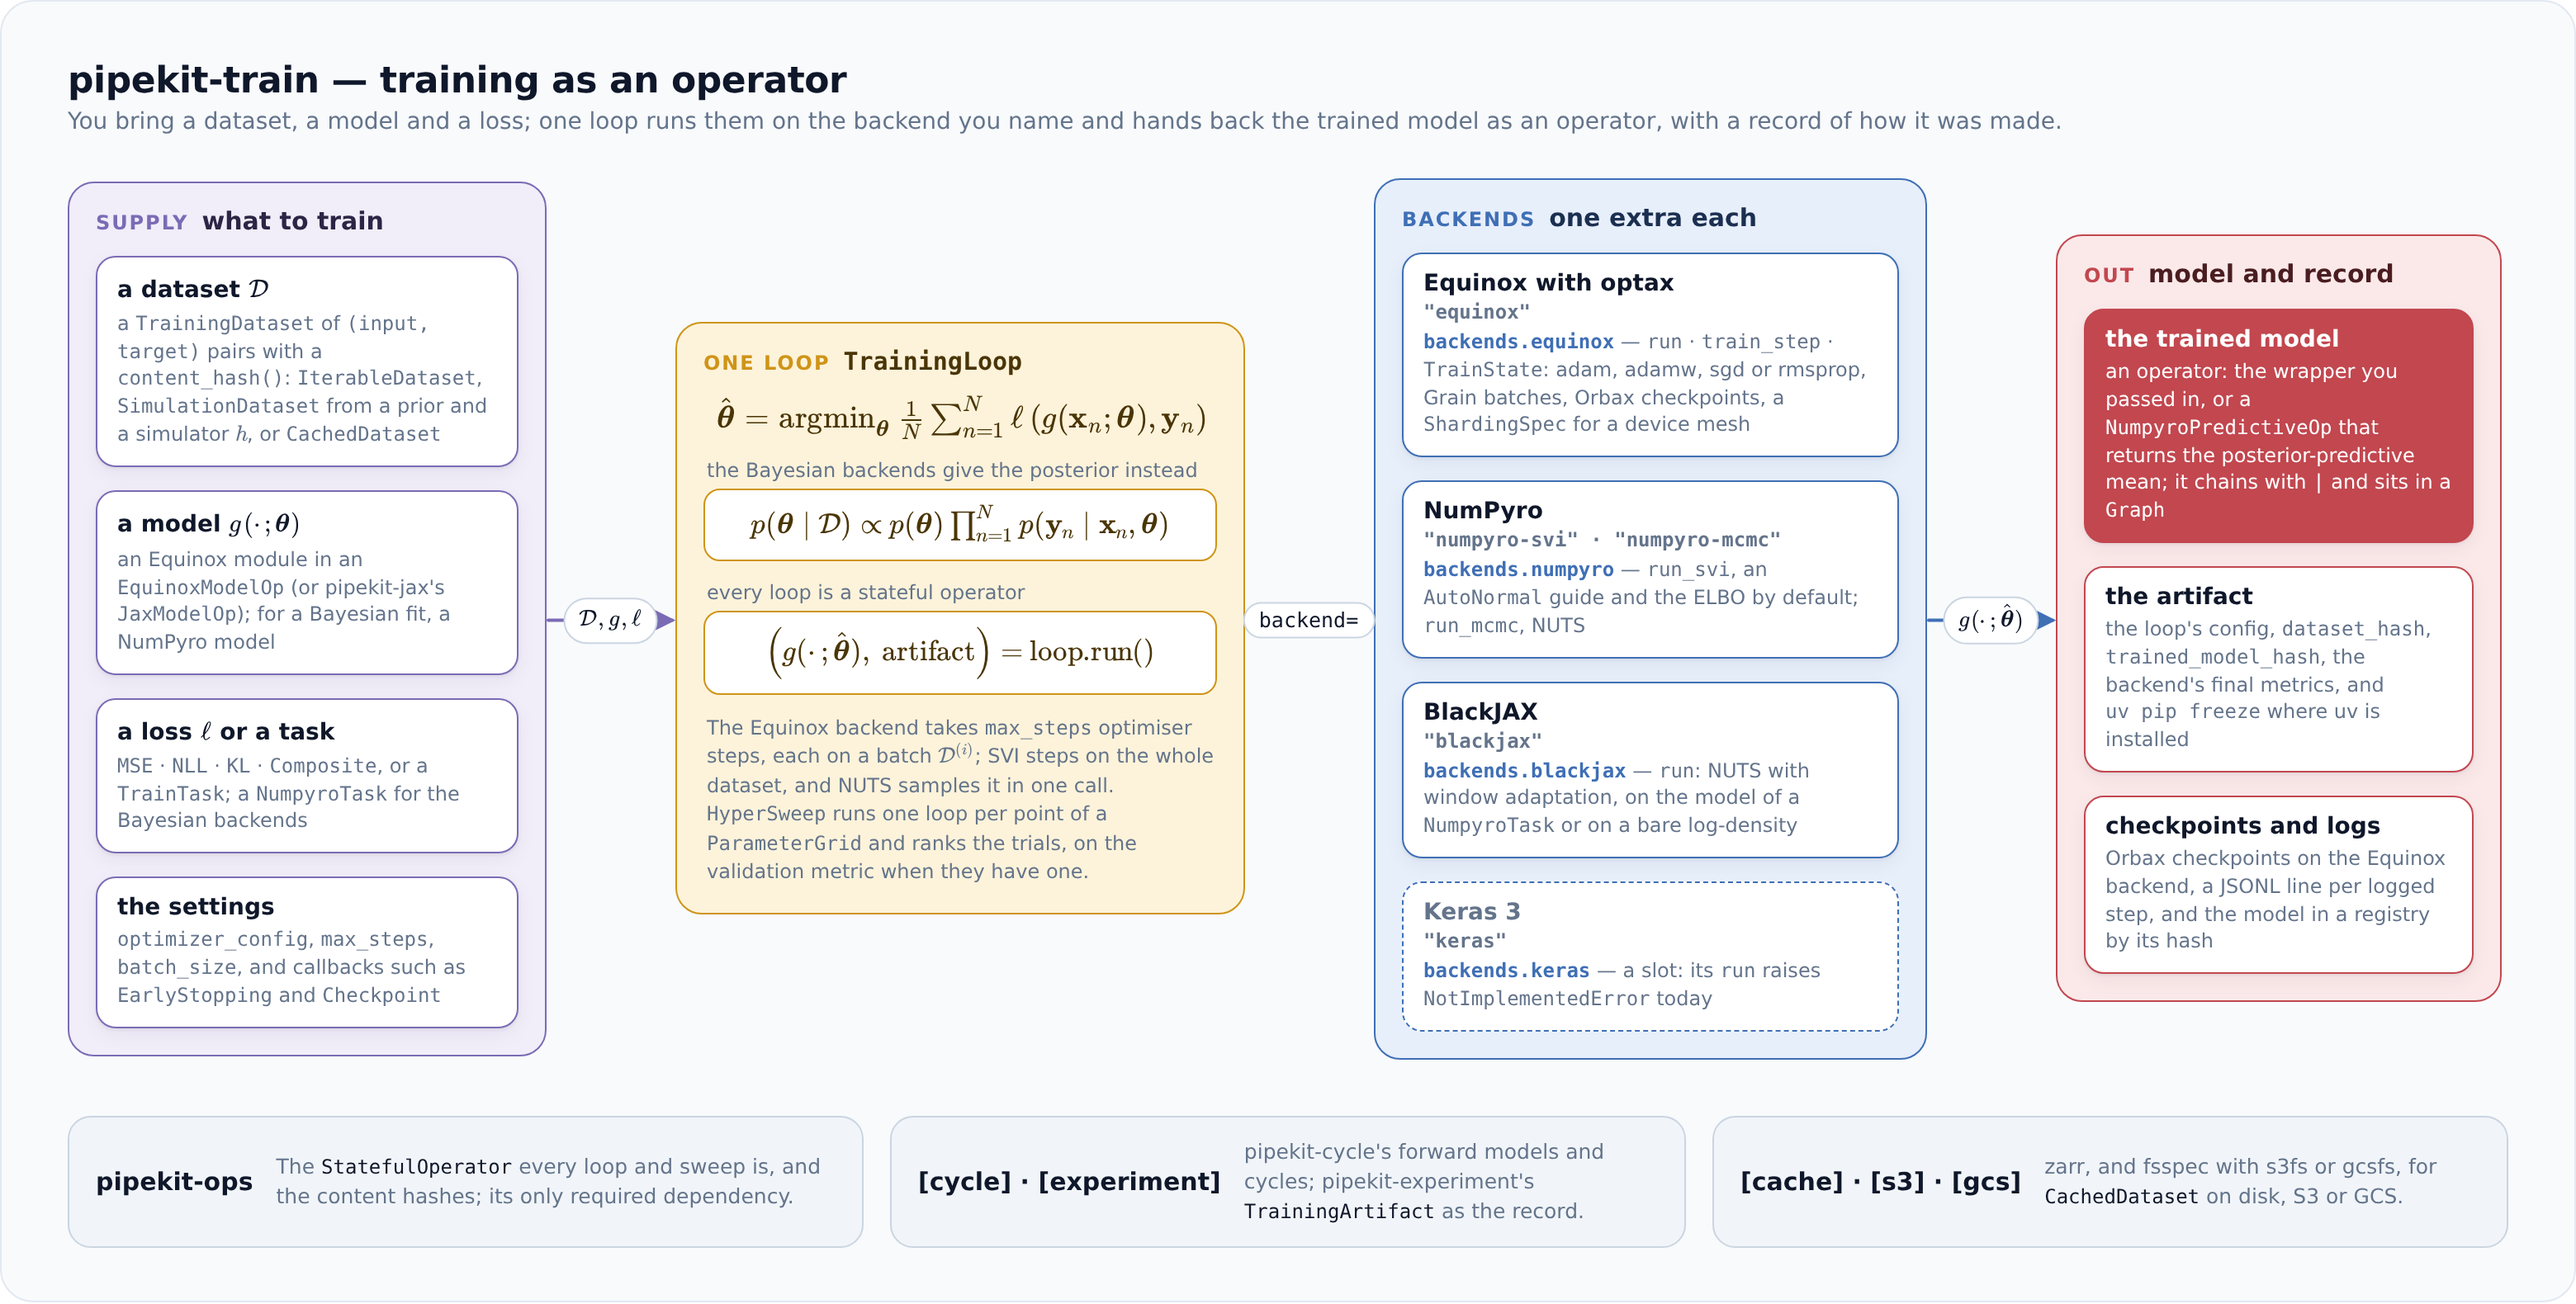
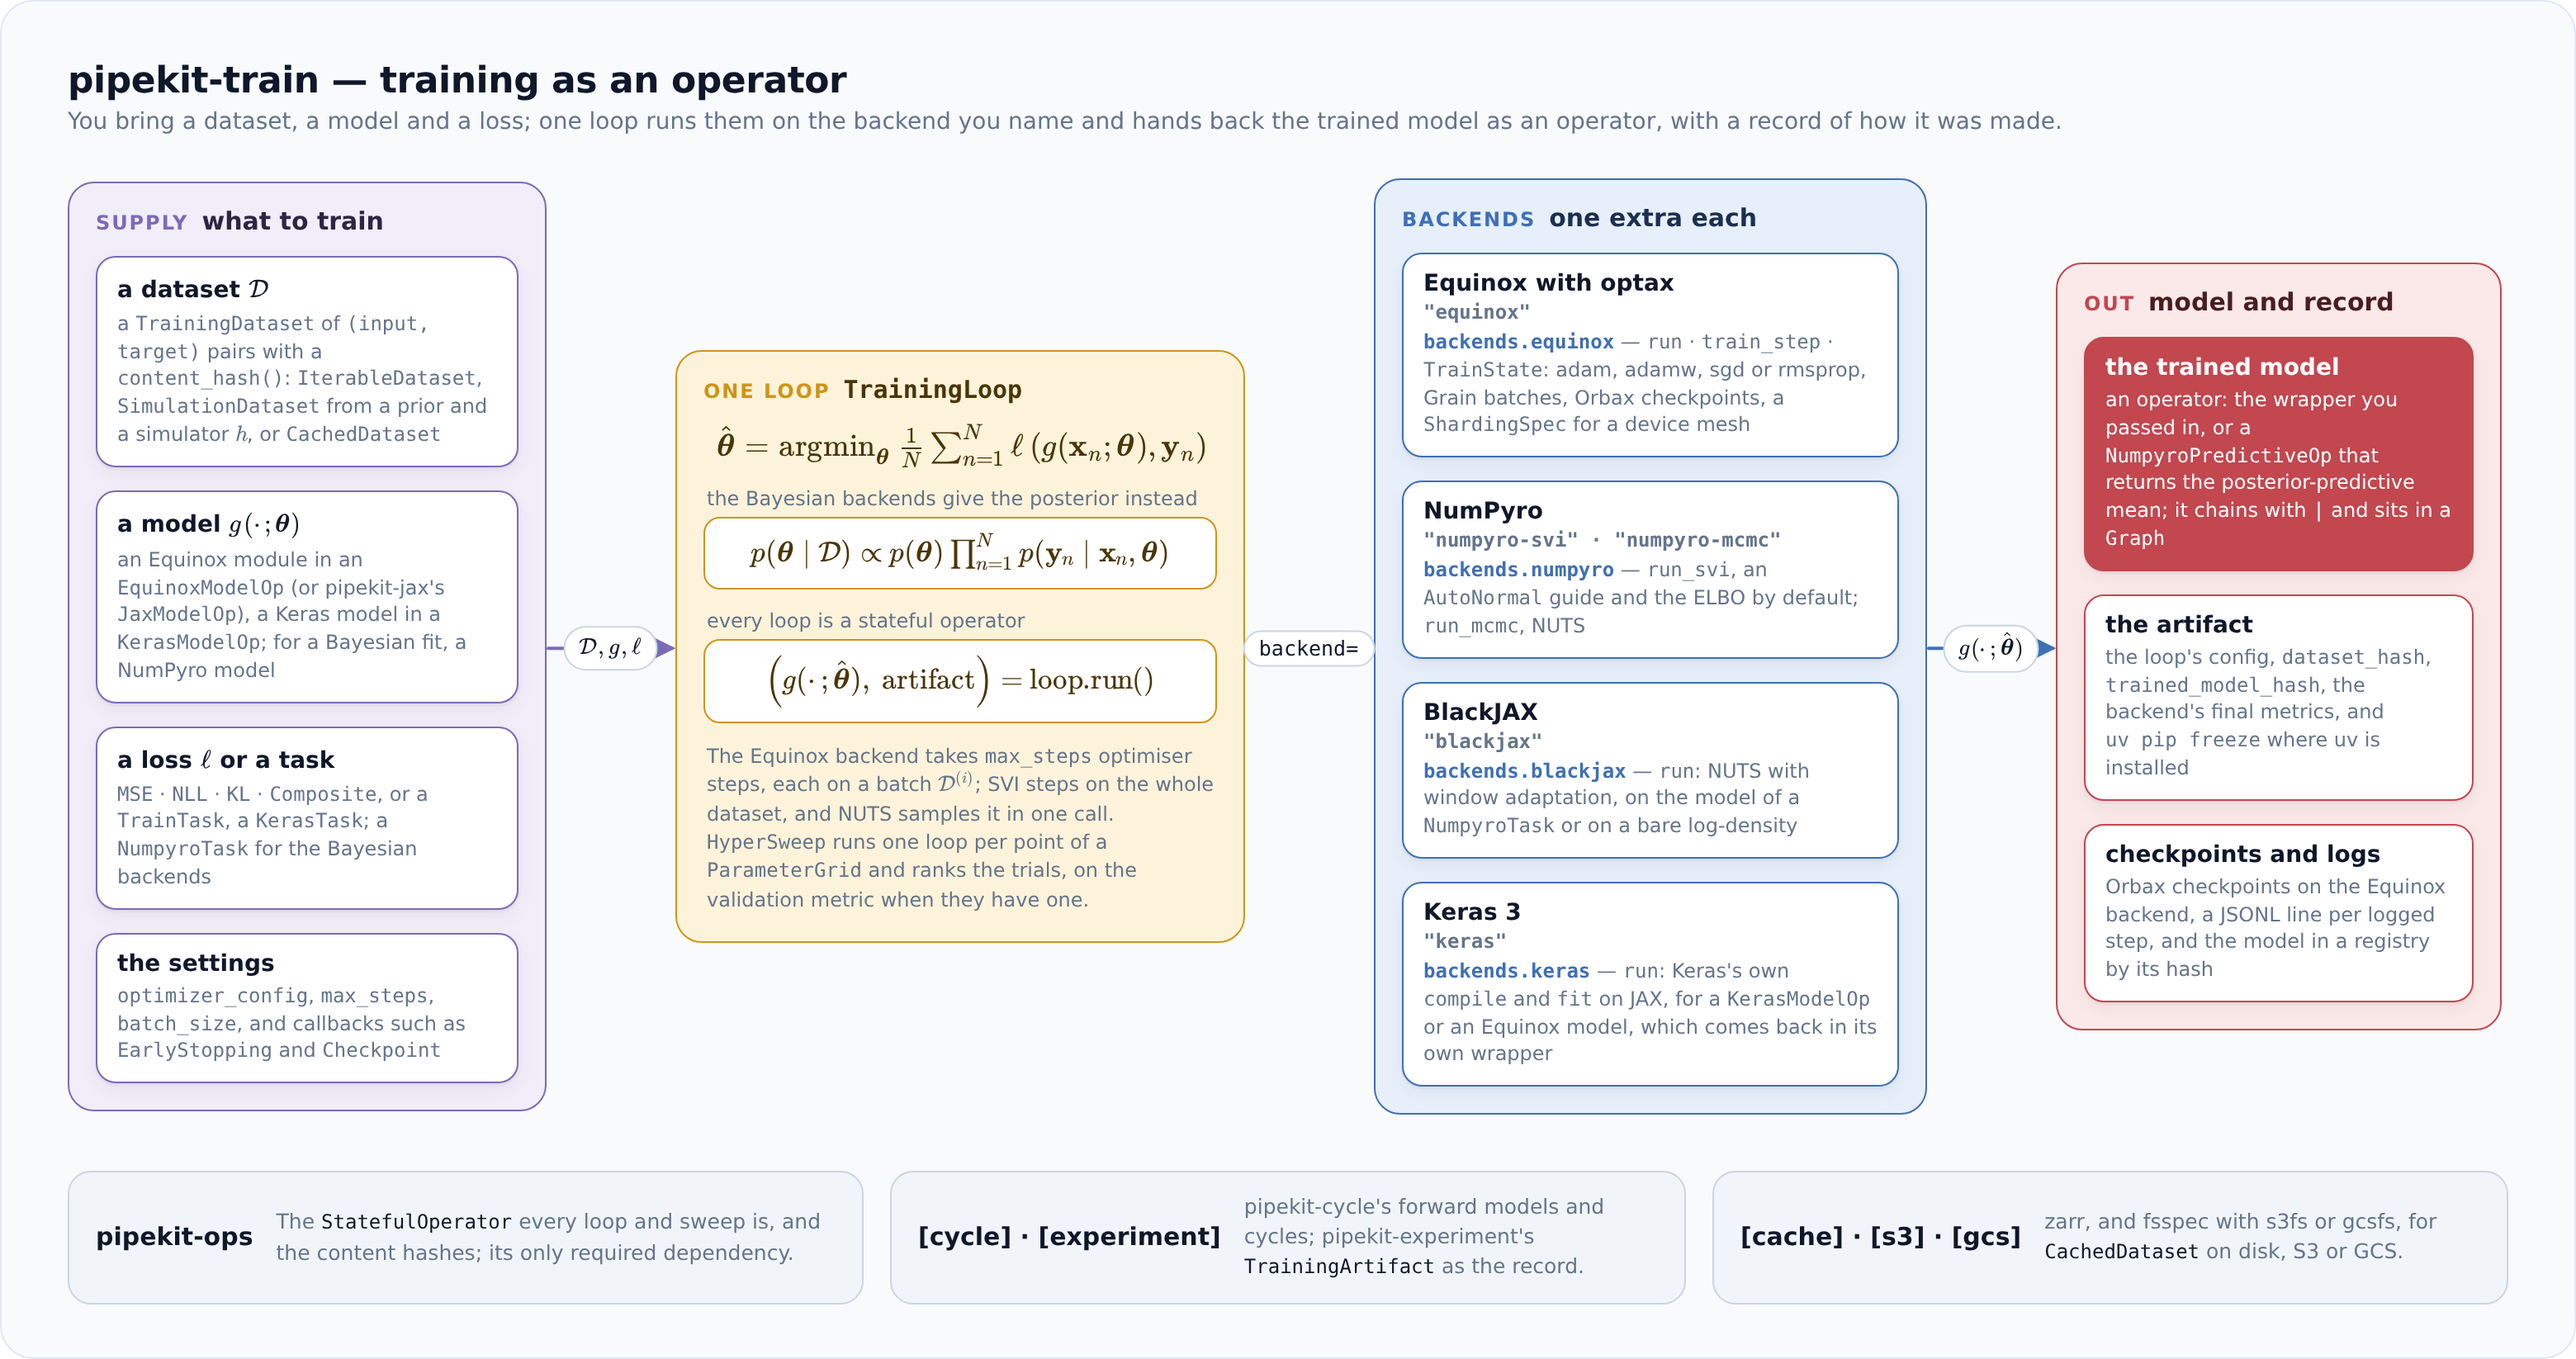
docs(images): the pipekit-train figures show the Keras backend that trains

diff --git a/docs/images/libraries/pipekit_train_overview/pipekit_train_overview.html b/docs/images/libraries/pipekit_train_overview/pipekit_train_overview.html
@@ -28,8 +28,6 @@
   .pt-loop { color: var(--ink-accent); margin: 2px 0 0 2px; text-align: center; }
   .note { font-size: 12px; color: var(--muted); margin: 12px 0 0 2px; line-height: 1.45; }
   .mod { font-family: var(--mono); font-size: 12px; color: var(--accent); font-weight: 600; }
-  .node.pt-slot { border-style: dashed; box-shadow: none; }
-  .node.pt-slot .name { color: var(--muted); }
   .pt-keys { font-family: var(--mono); font-size: 12px; font-weight: 600; color: var(--muted); margin-top: 2px; }
   .pt-nowrap { white-space: nowrap; }
   .base-row {
@@ -64,11 +62,11 @@
       </div>
       <div class="node">
         <div class="name">a model <span class="m">g(\cdot\,; \boldsymbol{\theta})</span></div>
-        <div class="desc">an Equinox module in an <code>EquinoxModelOp</code> (or pipekit-jax's <code>JaxModelOp</code>); for a Bayesian fit, a NumPyro model</div>
+        <div class="desc">an Equinox module in an <code>EquinoxModelOp</code> (or pipekit-jax's <code>JaxModelOp</code>), a Keras model in a <code>KerasModelOp</code>; for a Bayesian fit, a NumPyro model</div>
       </div>
       <div class="node">
         <div class="name">a loss <span class="m">\ell</span> or a task</div>
-        <div class="desc"><code>MSE</code> · <code>NLL</code> · <code>KL</code> · <code>Composite</code>, or a <code>TrainTask</code>; a <code>NumpyroTask</code> for the Bayesian backends</div>
+        <div class="desc"><code>MSE</code> · <code>NLL</code> · <code>KL</code> · <code>Composite</code>, or a <code>TrainTask</code>, a <code>KerasTask</code>; a <code>NumpyroTask</code> for the Bayesian backends</div>
       </div>
       <div class="node">
         <div class="name">the settings</div>
@@ -109,10 +107,10 @@
         <div class="pt-keys">"blackjax"</div>
         <div class="desc"><span class="mod">backends.blackjax</span> — <code>run</code>: NUTS with window adaptation, on the model of a <code>NumpyroTask</code> or on a bare log-density</div>
       </div>
-      <div class="node pt-slot">
+      <div class="node">
         <div class="name">Keras 3</div>
         <div class="pt-keys">"keras"</div>
-        <div class="desc"><span class="mod">backends.keras</span> — a slot: its <code>run</code> raises <code>NotImplementedError</code> today</div>
+        <div class="desc"><span class="mod">backends.keras</span> — <code>run</code>: Keras's own <code>compile</code> and <code>fit</code> on JAX, for a <code>KerasModelOp</code> or an Equinox model, which comes back in its own wrapper</div>
       </div>
     </div>
 

diff --git a/docs/images/libraries/pipekit_train_roles/make_svgs.py b/docs/images/libraries/pipekit_train_roles/make_svgs.py
@@ -56,7 +56,12 @@ ROWS = [
         [
             (
                 "trained",
-                ["EquinoxModelOp", "NumpyroPredictiveOp", "BlackjaxPredictiveOp"],
+                [
+                    "EquinoxModelOp",
+                    "KerasModelOp",
+                    "NumpyroPredictiveOp",
+                    "BlackjaxPredictiveOp",
+                ],
             ),
             ("evaluate", ["ValidationStep"]),
         ],
@@ -76,7 +81,7 @@ ROWS = [
                     "run_svi",
                     "run_mcmc",
                     "blackjax.run",
-                    "keras.run (stub)",
+                    "keras.run",
                 ],
             ),
             ("one update", ["train_step"]),
@@ -90,7 +95,7 @@ ROWS = [
         "the noun phrase",
         "the state held between calls",
         [
-            ("weights", ["TrainState"]),
+            ("weights", ["TrainState", "EquinoxLayer"]),
             ("carry", ["TrainerCarryState", "SweepCarryState", "SweepResult"]),
         ],
         "violet",
@@ -103,7 +108,7 @@ ROWS = [
         "how the run goes: settings, no data",
         [
             ("losses", ["Loss", "MSE", "NLL", "KL", "Composite"]),
-            ("tasks", ["TrainTask", "NumpyroTask", "BlackjaxTask"]),
+            ("tasks", ["TrainTask", "KerasTask", "NumpyroTask", "BlackjaxTask"]),
             ("search, mesh", ["ParameterGrid", "ShardingSpec"]),
             (
                 "callbacks",
@@ -123,6 +128,7 @@ ROWS = [
             ("losses", ["call_loss"]),
             ("hashes", ["hash_config"]),
             ("checkpoints", ["save_state", "restore_state"]),
+            ("Keras", ["build_keras_optimizer", "import_keras"]),
         ],
         "teal",
         False,
@@ -153,7 +159,13 @@ SIDES = [
     (
         "engines",
         "the optimisers and samplers the backends run",
-        ["optax.adamw", "numpyro.infer.SVI", "numpyro.infer.NUTS", "blackjax.nuts"],
+        [
+            "optax.adamw",
+            "keras.Model.fit",
+            "numpyro.infer.SVI",
+            "numpyro.infer.NUTS",
+            "blackjax.nuts",
+        ],
         "strategy",
     ),
     (
